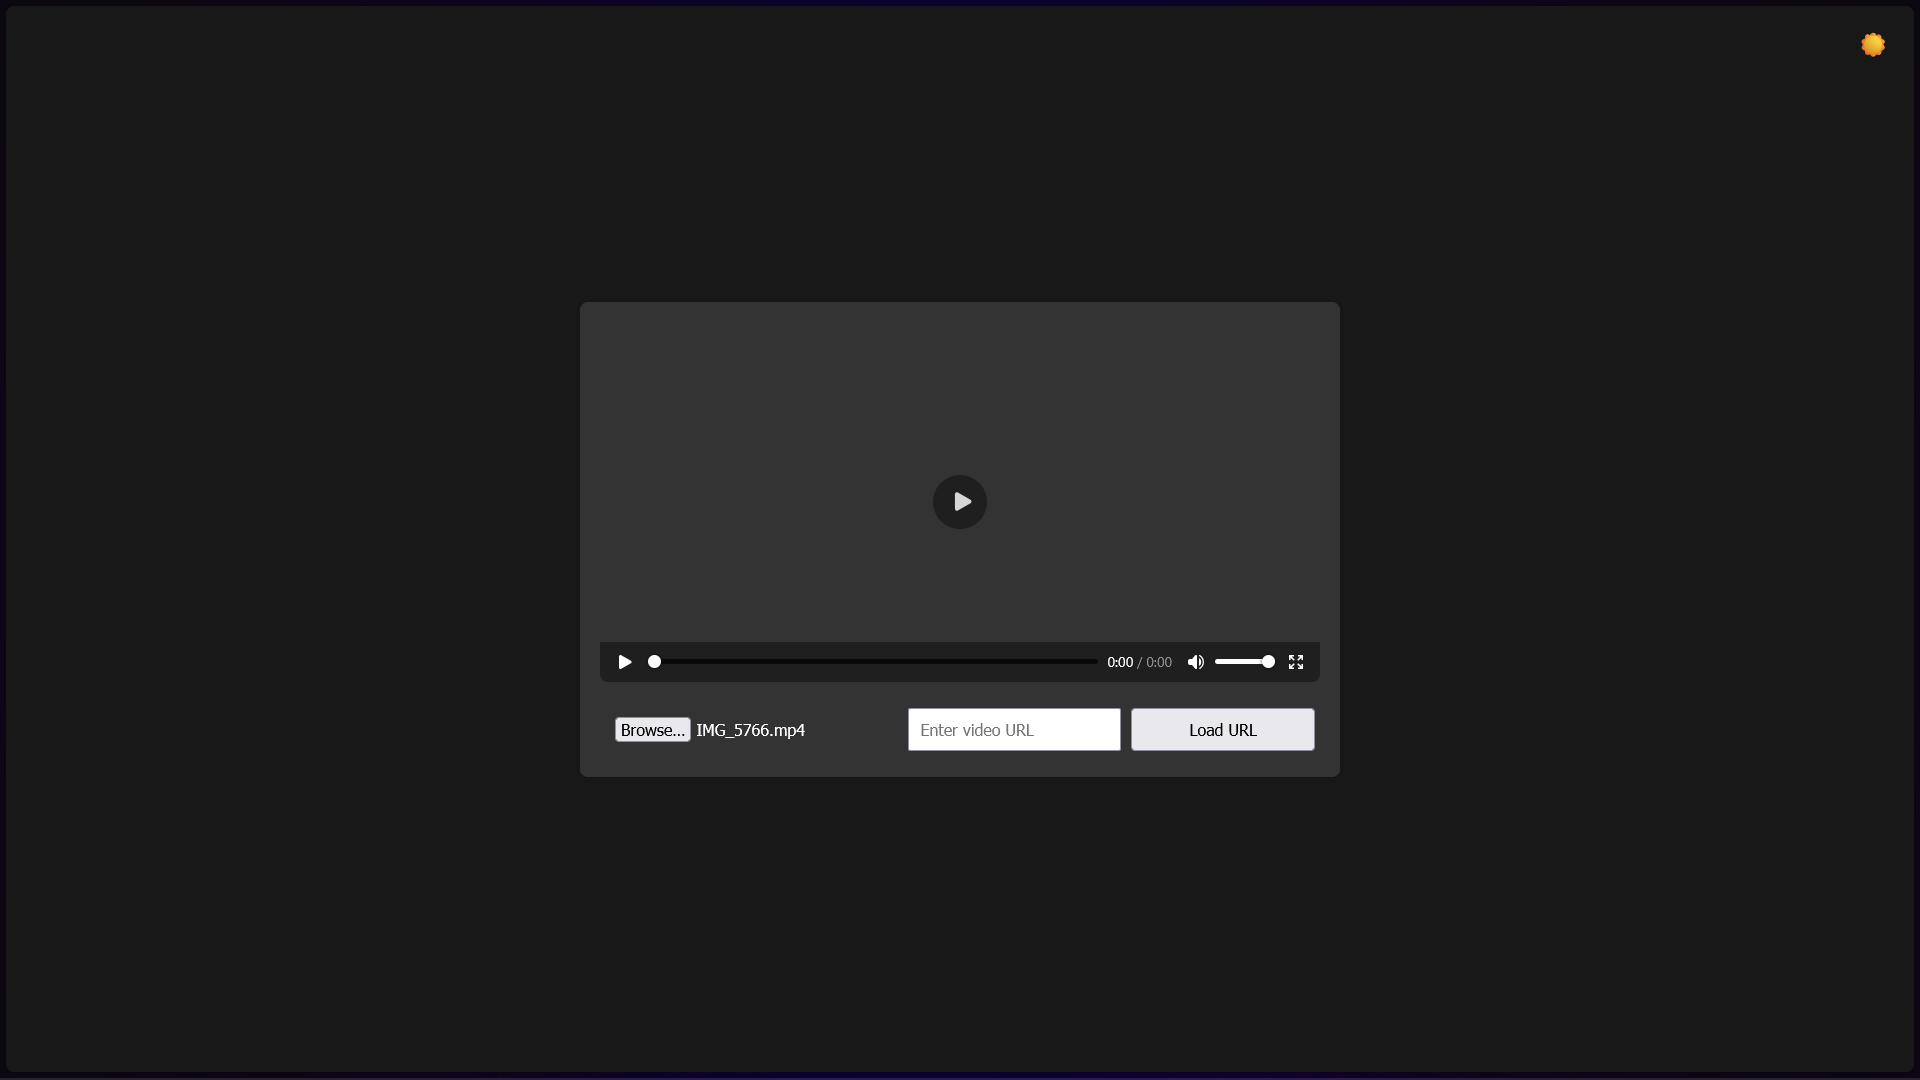
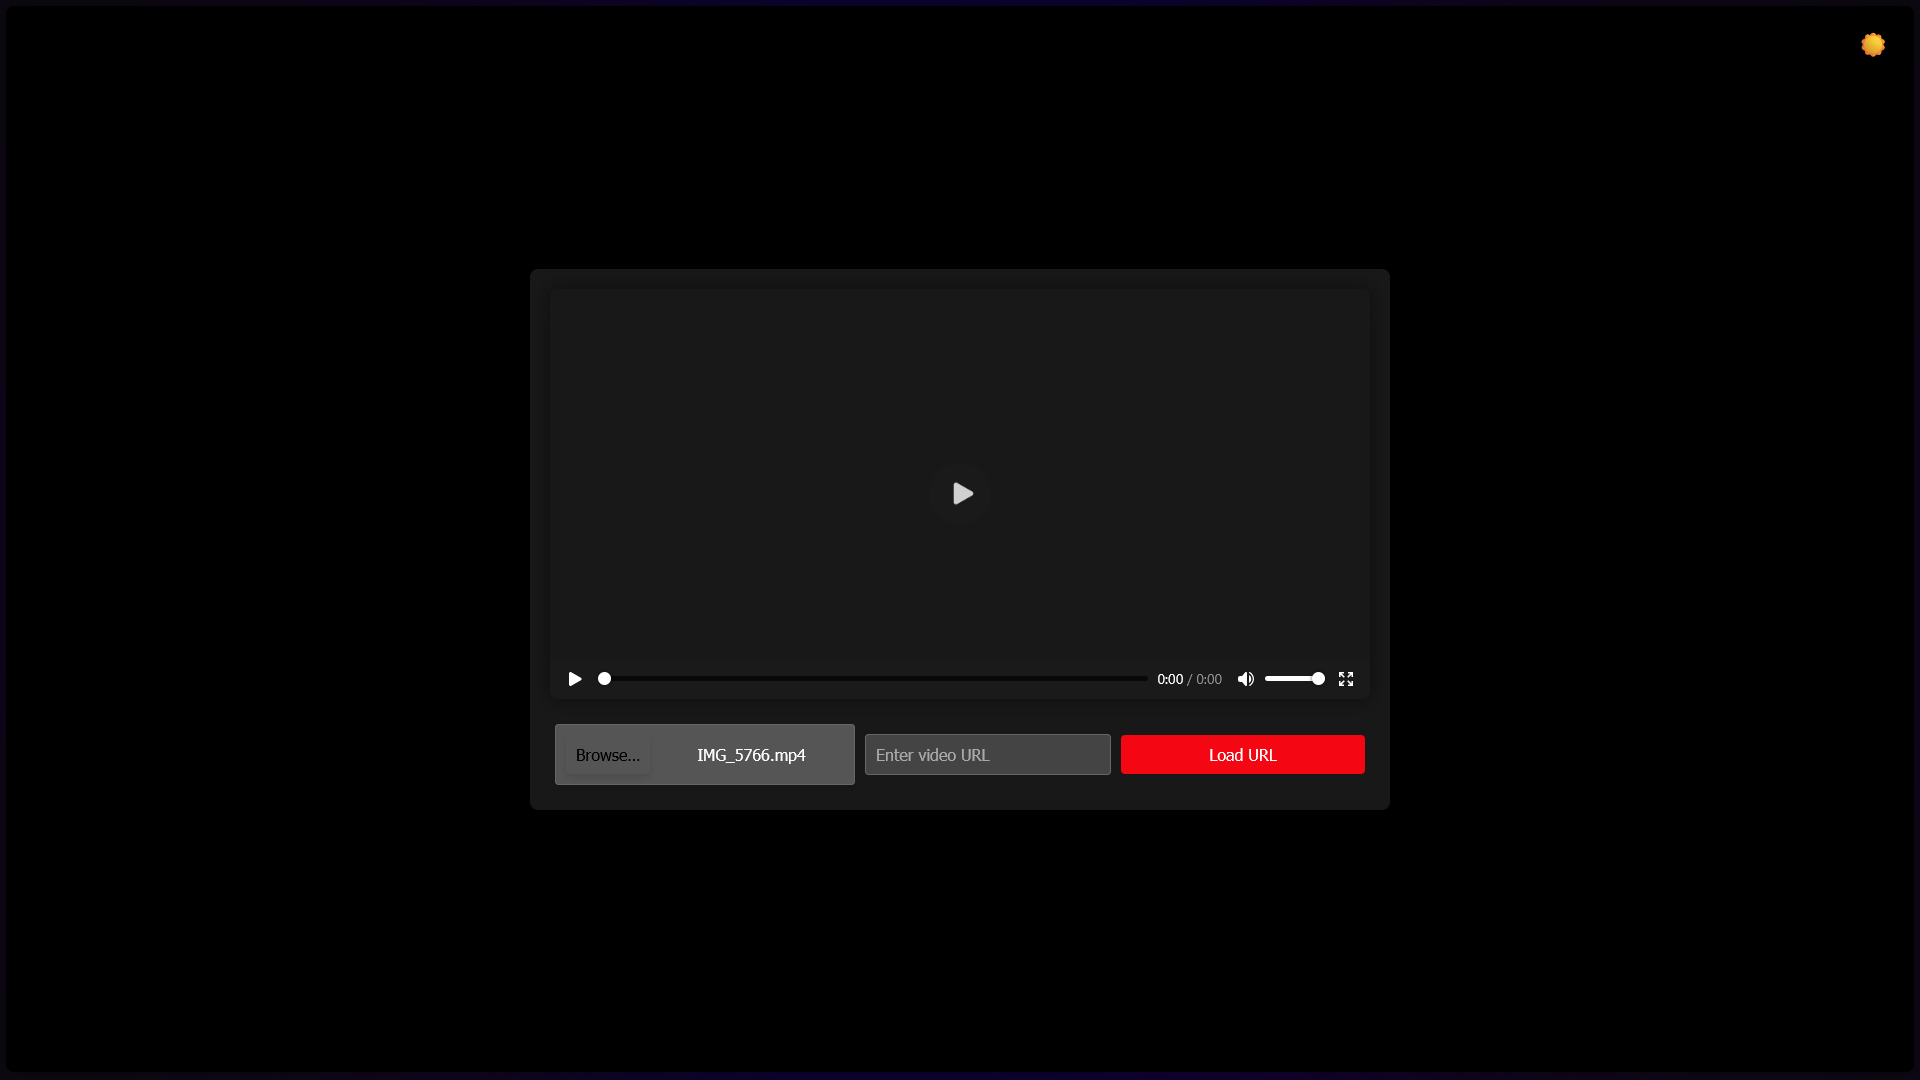
?

Changed region(s): [[0.2812, 0.275, 0.7188, 0.7333]]

diff --git a/css/styles.css b/css/styles.css
@@ -5,14 +5,14 @@ body {
     align-items: center;
     height: 100vh;
     margin: 0;
-    background-color: #141414;
-    color: #ffffff;
+    background-color: #ffffff;
+    color: #000000;
     transition: background-color 0.3s, color 0.3s;
 }
 
 body.dark-mode {
     background-color: #000000;
-    color: #000000;
+    color: #ffffff;
 }
 
 .container {
@@ -30,18 +30,18 @@ body.dark-mode {
     border: none;
     font-size: 24px;
     cursor: pointer;
-    color: #ffffff;
+    color: #000000;
 }
 
 body.dark-mode .theme-toggle {
-    color: #000000;
+    color: #ffffff;
 }
 
 .video-player {
     display: flex;
     flex-direction: column;
     align-items: center;
-    background: #181818;
+    background: #f0f0f0;
     padding: 20px;
     border-radius: 8px;
     box-shadow: 0 0 20px rgba(0, 0, 0, 0.5);
@@ -49,7 +49,7 @@ body.dark-mode .theme-toggle {
 }
 
 body.dark-mode .video-player {
-    background: #000000;
+    background: #181818;
 }
 
 video {
@@ -77,15 +77,15 @@ video {
     box-sizing: border-box;
     border: 1px solid #333;
     border-radius: 4px;
-    background-color: #333;
-    color: #fff;
+    background-color: #ffffff;
+    color: #000000;
     transition: background-color 0.3s, border-color 0.3s;
 }
 
 body.dark-mode .controls input, body.dark-mode .controls button {
-    background-color: #000000;
-    border-color: #000000;
-    color: #000000;
+    background-color: #333;
+    border-color: #333;
+    color: #ffffff;
 }
 
 .controls input[type="file"] {
@@ -98,8 +98,8 @@ body.dark-mode .controls input, body.dark-mode .controls button {
 }
 
 .controls input[type="file"]::file-selector-button {
-    background-color: #333;
-    color: #fff;
+    background-color: #ffffff;
+    color: #000000;
     border: none;
     cursor: pointer;
     padding: 10px;
@@ -109,12 +109,12 @@ body.dark-mode .controls input, body.dark-mode .controls button {
 }
 
 .controls input[type="file"]::file-selector-button:hover {
-    background-color: #555;
+    background-color: #f0f0f0;
 }
 
 .controls button {
     background-color: #e50914;
-    color: #fff;
+    color: #ffffff;
     cursor: pointer;
     border: none;
 }

diff --git a/README.md b/README.md
@@ -16,8 +16,8 @@ This project is a simple web video player that allows users to upload a local vi
 ## File Structure
 
 - `index.html`: The main HTML file that contains the structure of the web video player.
-- `styles.css`: The CSS file that contains styles for the web video player.
-- `script.js`: The JavaScript file that handles video file uploads, URL loading, and theme toggling.
+- `css/styles.css`: The CSS file that contains styles for the web video player.
+- `js/script.js`: The JavaScript file that handles video file uploads, URL loading, and theme toggling.
 
 ## Usage
 
